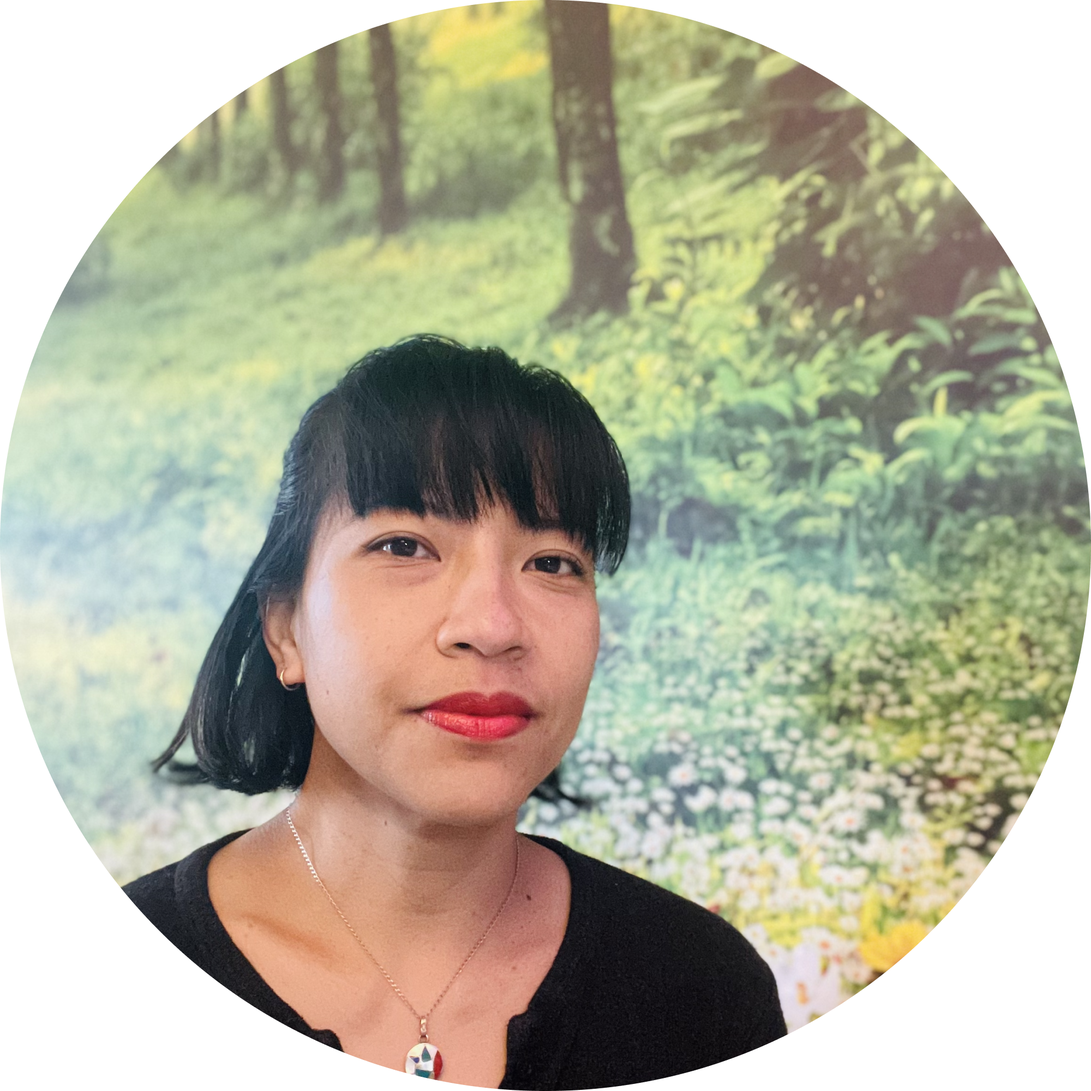
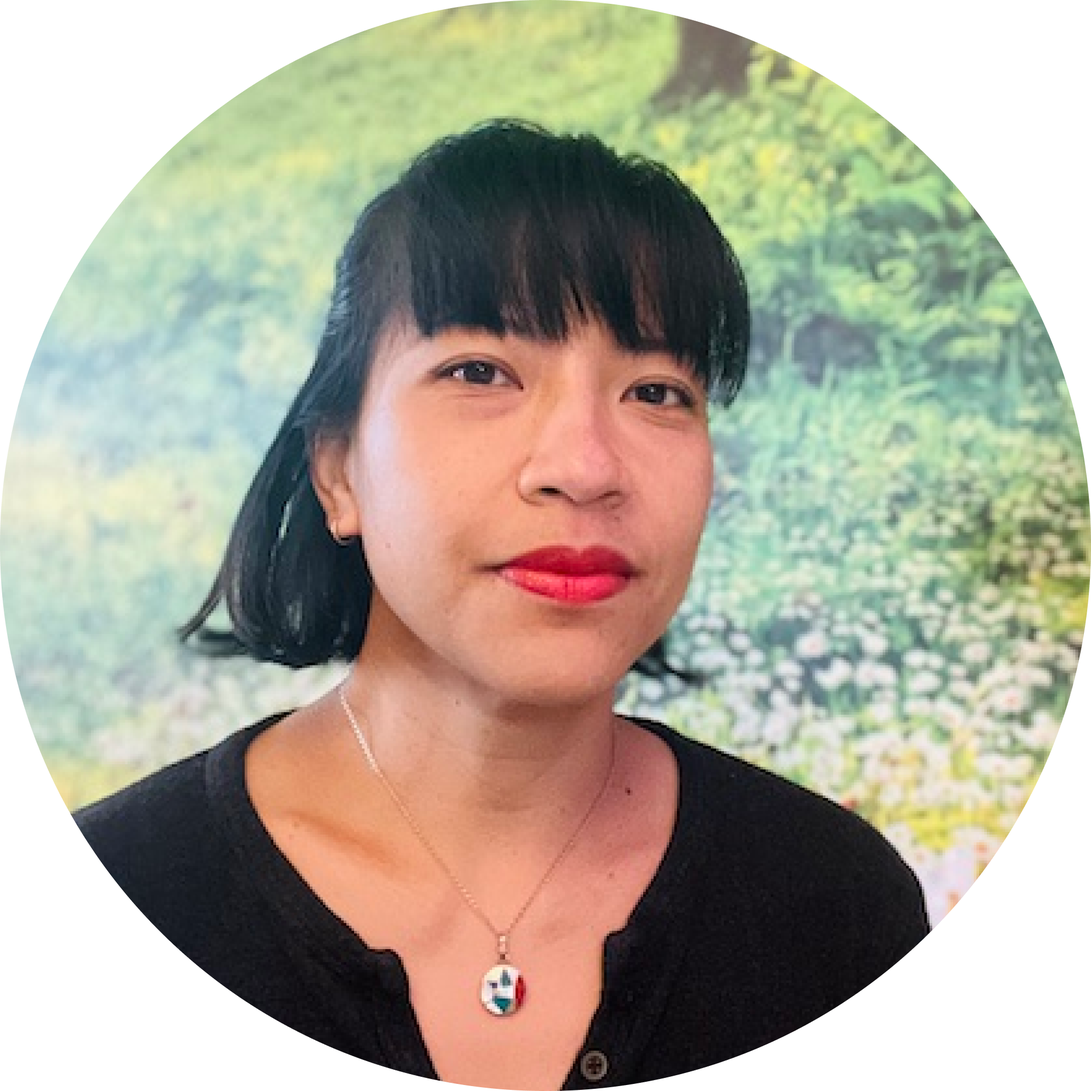
updated BW and color photo

diff --git a/index.html b/index.html
@@ -43,7 +43,7 @@
         </div>
 
         <div class="image">
-          <img src="./assets/KA_BrandingGradient.png" />
+          <img src="./assets/profilephotoBL.png" />
           <div class="marquee">
             <span>Click around and find ouT</span>
           </div>

diff --git a/layout.css b/layout.css
@@ -272,7 +272,7 @@ section {
 }
 
 .about .image img:hover {
-  content: url("./assets/profilephotoBL.png");
+  content: url("./assets/profilephoto.png");
   opacity: 1;
   background-color: #FFF;
   /* width: 100%; */
